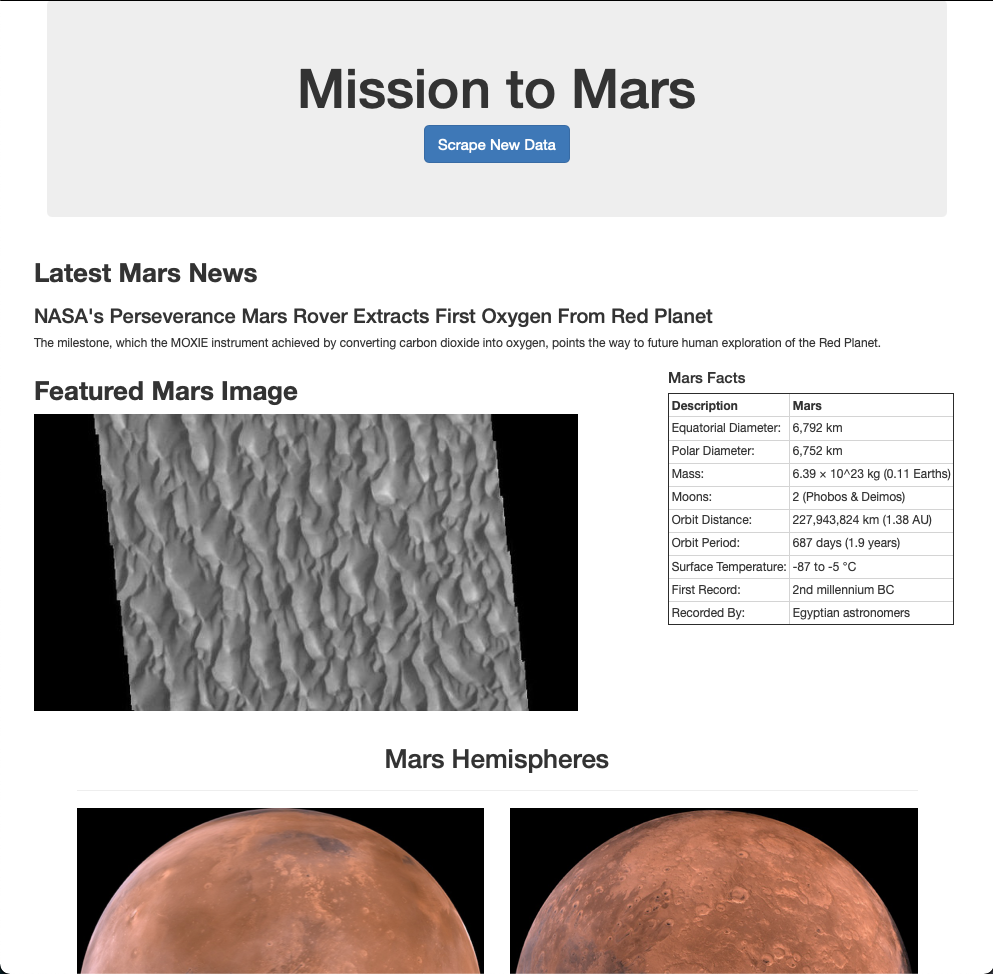
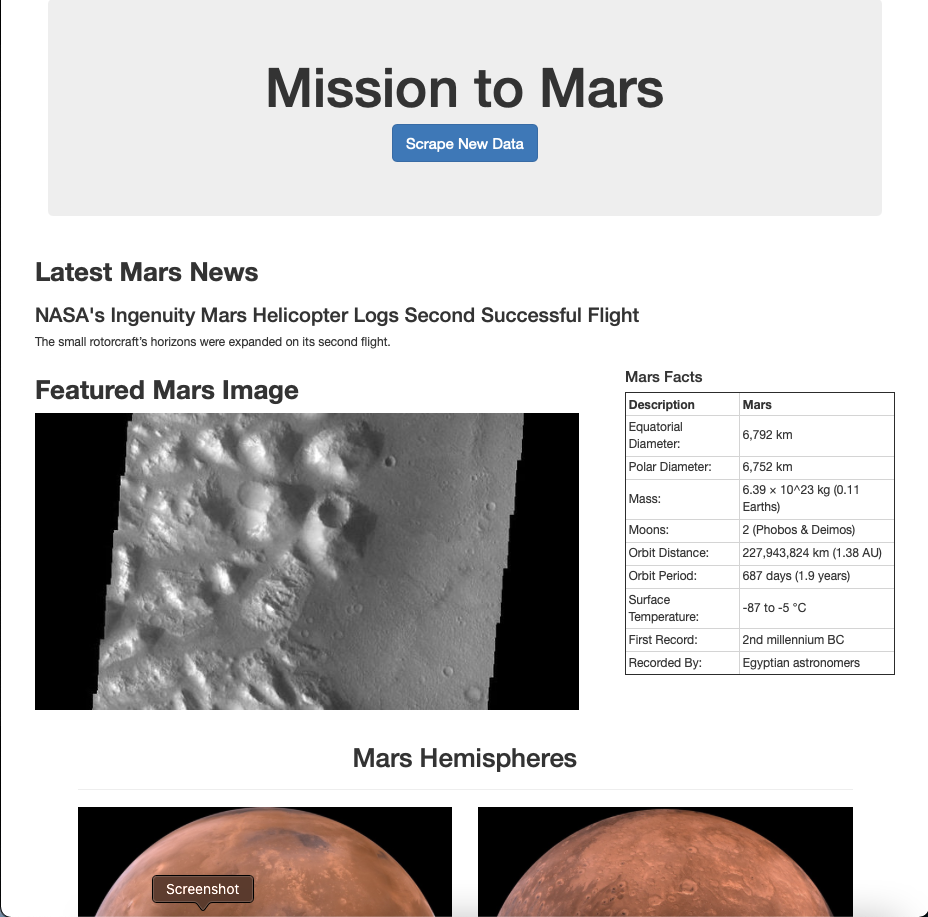
Ver 1.1.0 - update

Changed region(s): [[0.0312, 0.2748, 0.9688, 1.0], [0.2812, 0.0611, 0.7188, 0.1832]]

diff --git a/scrape_mars.py b/scrape_mars.py
@@ -19,6 +19,7 @@ def scrape():
     nasa_results = nasa_soup.find(class_="slide")
     news_titles = nasa_results.find("h3").text
     news_p = nasa_results.find(class_="article_teaser_body").text
+    
     mars_dict["news_titles"] = news_titles
     mars_dict["news_p"] = news_p
 
@@ -30,6 +31,7 @@ def scrape():
     feat_soup = bs(feat_html)
     feat_results = feat_soup.find("img", class_="headerimage fade-in")['src']
     featured_image_url = "https://data-class-jpl-space.s3.amazonaws.com/JPL_Space/" + feat_results
+    
     mars_dict["featured_image_url"] = featured_image_url
 
     # Mars Facts
@@ -38,19 +40,21 @@ def scrape():
     table_fact = table[0]
     table_fact.columns = ["Description","Mars"]
     mars_fact = table_fact.to_html(index=False)
+    
     mars_dict["mars_fact"] = mars_fact
 
     # Mars Hemispheres
     hemisphere_image_urls = []
-    hem_url = [
-        "https://astrogeology.usgs.gov/search/map/Mars/Viking/cerberus_enhanced",
-        "https://astrogeology.usgs.gov/search/map/Mars/Viking/schiaparelli_enhanced",
-        "https://astrogeology.usgs.gov/search/map/Mars/Viking/syrtis_major_enhanced",
-        "https://astrogeology.usgs.gov/search/map/Mars/Viking/valles_marineris_enhanced"
-    ]
-
-    for u in hem_url:
-        driver.get(u)
+    hem_home_url = "https://astrogeology.usgs.gov/search/results?q=hemisphere+enhanced&k1=target&v1=Mars"
+    driver.get(hem_home_url)
+    time.sleep(3)
+    hem_main_html = driver.page_source
+    hem_main_soup = bs(hem_main_html)
+    hem_all_url = hem_main_soup.find_all("div", class_="description")
+    for a in hem_all_url:    
+        hem_url = a.find('a')['href']
+        hem_url = "https://astrogeology.usgs.gov/" + hem_url
+        driver.get(hem_url)
         time.sleep(3)
         hem_html = driver.page_source
         hem_soup = bs(hem_html)
@@ -61,6 +65,8 @@ def scrape():
         hemisphere_image_urls.append(hem_info)
 
     mars_dict["hemisphere_image_urls"] = hemisphere_image_urls
+
+
 
     time.sleep(2)
     driver.close()

diff --git a/app.py b/app.py
@@ -19,6 +19,7 @@ def home():
     return render_template("index.html", mars=data)
     
 
+
 # Route that will trigger the scrape function
 @app.route("/scrape")
 def scrape():
